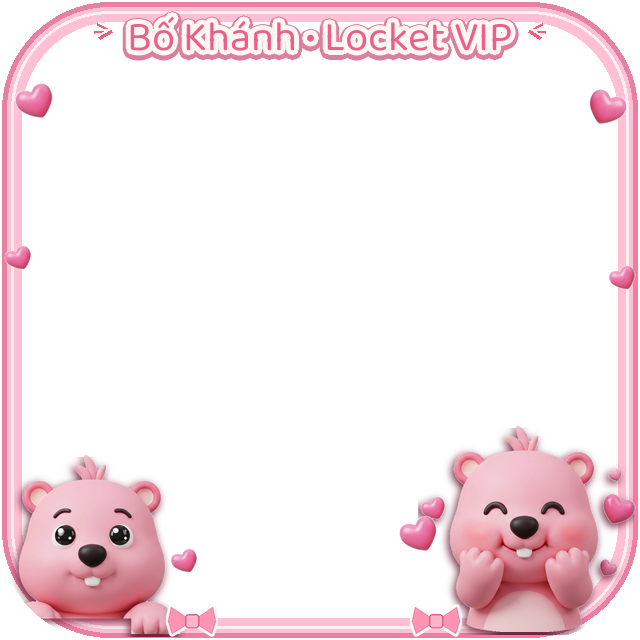
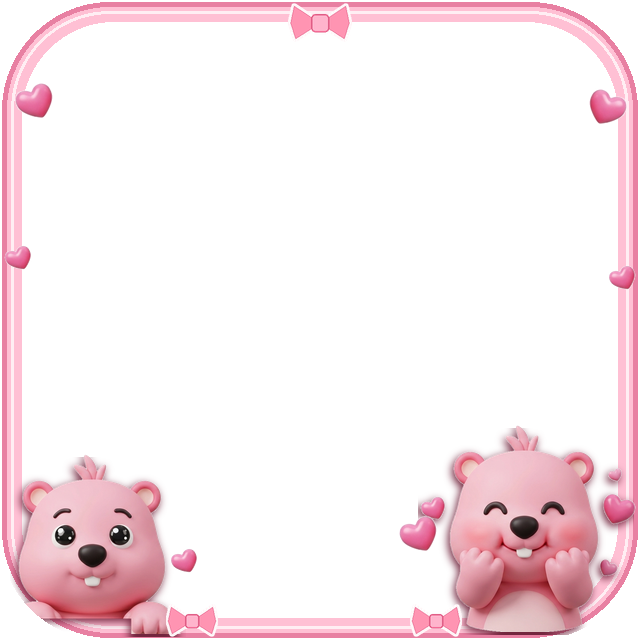
fix: remove Bố Khánh text from frame/captions and fix QUIC+ETag for iOS widget frame

Changed region(s): [[0.1562, 0.0, 0.8438, 0.0938]]

diff --git a/locket_unlocked.js b/locket_unlocked.js
@@ -5,10 +5,11 @@
 // Tác giả: Bố Khánh
 // ============================================================
 
-var ua = $request.headers["User-Agent"] || $request.headers["user-agent"] || "";
-var obj = JSON.parse($response.body);
+var ua = ($request.headers && ($request.headers["User-Agent"] || $request.headers["user-agent"])) || "";
+var obj = JSON.parse($response.body || "{}");
 
-if (ua.includes("Locket")) {
+if (true) {
+    obj.state = "UPDATE";
     obj.Attention = "Chúc mừng bạn! Vui lòng không sử dụng chúng dưới mục đích thương mại!";
     obj.entries = obj.entries || {};
 
@@ -381,7 +382,7 @@ if (ua.includes("Locket")) {
     var dayNames = ["Chủ Nhật", "Thứ 2", "Thứ 3", "Thứ 4", "Thứ 5", "Thứ 6", "Thứ 7"];
     var liveClockText = dayNames[vnDay] + ", " + pad2(vnDate) + "/" + pad2(vnMonth) + " • " + pad2(vnHour) + ":" + pad2(vnMin);
 
-    var sessionText = "Hội cú đêm cùng Bố Khánh 🦉";
+    var sessionText = "Hội cú đêm thức khuya 🦉";
     var sessionColors = ["#0F172A", "#1E1B4B", "#312E81"];
     var sessionTextColor = "#E0E7FF";
     var sessionIcon = "moon.stars.fill";
@@ -460,7 +461,7 @@ if (ua.includes("Locket")) {
         ]),
         overlay_items: JSON.stringify([
             {
-                section: "⚡ Caption Động Thời Gian Thực • Bố Khánh",
+                section: "⚡ Caption Động Thời Gian Thực",
                 items: [
                     { overlay_id: "caption:bk_live_clock", source: "remote", caption: { background: { colors: ["#1E293B", "#0F172A"], material_blur: "ultra_thin" }, icon: { data: "clock.fill", type: "sf_symbol", color: "#38BDF8" }, max_lines: 1, text: liveClockText, text_color: "#F8FAFC", type: "static_content" } },
                     { overlay_id: "caption:bk_auto_session", source: "remote", caption: { background: { colors: sessionColors }, icon: { data: sessionIcon, type: "sf_symbol", color: sessionTextColor }, max_lines: 1, text: sessionText, text_color: sessionTextColor, type: "static_content" } },
@@ -514,13 +515,9 @@ if (ua.includes("Locket")) {
                 ]
             },
             {
-                section: "🎨 Decorative by Bố Khánh",
+                section: "🎨 Decorative VIP",
                 items: [
-                    { overlay_id: "caption:bokhanh", source: "remote", caption: { background: { colors: ["#B8E7FF", "#A8F5D0", "#DCCBFF"] }, icon: { data: "crown.fill", type: "sf_symbol", color: "#183153" }, max_lines: 1, text: "Bố Khánh 👑", text_color: "#183153", type: "static_content" } },
-                    { overlay_id: "caption:bokhanh_vip", source: "remote", caption: { background: { colors: ["#FFE0A0", "#F59E0B", "#B45309"] }, icon: { data: "sparkles", type: "sf_symbol", color: "#FFFFFF" }, max_lines: 1, text: "Bố Khánh VIP ✨", text_color: "#FFFFFF", type: "static_content" } },
-                    { overlay_id: "caption:bokhanh_verified", source: "remote", caption: { background: { colors: ["#0EA5E9", "#2563EB", "#1D4ED8"], material_blur: "thin" }, icon: { data: "checkmark.seal.fill", type: "sf_symbol", color: "#FFFFFF" }, max_lines: 1, text: "Verified by Bố Khánh", text_color: "#FFFFFF", type: "static_content" } },
-                    { overlay_id: "caption:khanh_siu_dz", source: "remote", caption: { background: { colors: ["#F43F5E", "#FB923C", "#FACC15"] }, icon: { data: "flame.fill", type: "sf_symbol", color: "#FFFFFF" }, max_lines: 1, text: "Khánh Siu Dz 😎", text_color: "#FFFFFF", type: "static_content" } },
-                    { overlay_id: "caption:bk_morning_slot", source: "remote", daily_start_hour: 5, daily_end_hour: 11, caption: { background: { colors: ["#FF8008", "#FFC837"] }, icon: { data: "sun.and.horizon.fill", type: "sf_symbol", color: "#FFFFFF" }, max_lines: 1, text: "Sáng sớm cùng Bố Khánh ☀", text_color: "#FFFFFF", type: "static_content" } },
+                    { overlay_id: "caption:bk_morning_slot", source: "remote", daily_start_hour: 5, daily_end_hour: 11, caption: { background: { colors: ["#FF8008", "#FFC837"] }, icon: { data: "sun.and.horizon.fill", type: "sf_symbol", color: "#FFFFFF" }, max_lines: 1, text: "Chào ngày mới rực rỡ ☀", text_color: "#FFFFFF", type: "static_content" } },
                     { overlay_id: "caption:bk_night_slot", source: "remote", daily_start_hour: 21, daily_end_hour: 5, caption: { background: { colors: ["#0F172A", "#312E81", "#581C87"] }, icon: { data: "moon.stars.fill", type: "sf_symbol", color: "#FDE047" }, max_lines: 1, text: "Đêm muộn tâm sự 🌙", text_color: "#F8FAFC", type: "static_content" } },
                     { overlay_id: "caption:tin_nong_news", source: "remote", caption: { background: { colors: ["#800000", "#C70039", "#FF1E56"] }, icon: { type: "image", data: "https://img.icons8.com/fluency/96/news.png", source: "url" }, max_lines: 1, text: "BẢN TIN 24/7 🚨", text_color: "#FFFFFF", type: "static_content" } },
                     { overlay_id: "caption:em_oi_chuyen_do", source: "remote", caption: { background: { colors: ["#2C0B4D", "#6A0572", "#AB83A1"] }, icon: { data: "https://img.icons8.com/color/96/mute.png", source: "url", type: "image" }, max_lines: 1, text: "Em ơi cái chuyện đó... 🫣", text_color: "#FFFFFF", type: "static_content" } },

diff --git a/locket_gold_30s_bokhanh.js b/locket_gold_30s_bokhanh.js
@@ -451,7 +451,7 @@ if (url.indexOf("revenuecat.com") !== -1 || url.indexOf("rc-backup.com") !== -1)
     var dayNames = ["Chủ Nhật", "Thứ 2", "Thứ 3", "Thứ 4", "Thứ 5", "Thứ 6", "Thứ 7"];
     var liveClockText = dayNames[vnDay] + ", " + pad2(vnDate) + "/" + pad2(vnMonth) + " • " + pad2(vnHour) + ":" + pad2(vnMin);
 
-    var sessionText = "Hội cú đêm cùng Bố Khánh 🦉";
+    var sessionText = "Hội cú đêm thức khuya 🦉";
     var sessionColors = ["#0F172A", "#1E1B4B", "#312E81"];
     var sessionTextColor = "#E0E7FF";
     var sessionIcon = "moon.stars.fill";
@@ -530,7 +530,7 @@ if (url.indexOf("revenuecat.com") !== -1 || url.indexOf("rc-backup.com") !== -1)
         ]),
         overlay_items: JSON.stringify([
             {
-                section: "⚡ Caption Động Thời Gian Thực • Bố Khánh",
+                section: "⚡ Caption Động Thời Gian Thực",
                 items: [
                     { overlay_id: "caption:bk_live_clock", source: "remote", caption: { background: { colors: ["#1E293B", "#0F172A"], material_blur: "ultra_thin" }, icon: { data: "clock.fill", type: "sf_symbol", color: "#38BDF8" }, max_lines: 1, text: liveClockText, text_color: "#F8FAFC", type: "static_content" } },
                     { overlay_id: "caption:bk_auto_session", source: "remote", caption: { background: { colors: sessionColors }, icon: { data: sessionIcon, type: "sf_symbol", color: sessionTextColor }, max_lines: 1, text: sessionText, text_color: sessionTextColor, type: "static_content" } },
@@ -585,13 +585,9 @@ if (url.indexOf("revenuecat.com") !== -1 || url.indexOf("rc-backup.com") !== -1)
                 ]
             },
             {
-                section: "🎨 Decorative by Bố Khánh",
+                section: "🎨 Decorative VIP",
                 items: [
-                    { overlay_id: "caption:bokhanh", source: "remote", caption: { background: { colors: ["#B8E7FF", "#A8F5D0", "#DCCBFF"] }, icon: { data: "crown.fill", type: "sf_symbol", color: "#183153" }, max_lines: 1, text: "Bố Khánh 👑", text_color: "#183153", type: "static_content" } },
-                    { overlay_id: "caption:bokhanh_vip", source: "remote", caption: { background: { colors: ["#FFE0A0", "#F59E0B", "#B45309"] }, icon: { data: "sparkles", type: "sf_symbol", color: "#FFFFFF" }, max_lines: 1, text: "Bố Khánh VIP ✨", text_color: "#FFFFFF", type: "static_content" } },
-                    { overlay_id: "caption:bokhanh_verified", source: "remote", caption: { background: { colors: ["#0EA5E9", "#2563EB", "#1D4ED8"], material_blur: "thin" }, icon: { data: "checkmark.seal.fill", type: "sf_symbol", color: "#FFFFFF" }, max_lines: 1, text: "Verified by Bố Khánh", text_color: "#FFFFFF", type: "static_content" } },
-                    { overlay_id: "caption:khanh_siu_dz", source: "remote", caption: { background: { colors: ["#F43F5E", "#FB923C", "#FACC15"] }, icon: { data: "flame.fill", type: "sf_symbol", color: "#FFFFFF" }, max_lines: 1, text: "Khánh Siu Dz 😎", text_color: "#FFFFFF", type: "static_content" } },
-                    { overlay_id: "caption:bk_morning_slot", source: "remote", daily_start_hour: 5, daily_end_hour: 11, caption: { background: { colors: ["#FF8008", "#FFC837"] }, icon: { data: "sun.and.horizon.fill", type: "sf_symbol", color: "#FFFFFF" }, max_lines: 1, text: "Sáng sớm cùng Bố Khánh ☀", text_color: "#FFFFFF", type: "static_content" } },
+                    { overlay_id: "caption:bk_morning_slot", source: "remote", daily_start_hour: 5, daily_end_hour: 11, caption: { background: { colors: ["#FF8008", "#FFC837"] }, icon: { data: "sun.and.horizon.fill", type: "sf_symbol", color: "#FFFFFF" }, max_lines: 1, text: "Chào ngày mới rực rỡ ☀", text_color: "#FFFFFF", type: "static_content" } },
                     { overlay_id: "caption:bk_night_slot", source: "remote", daily_start_hour: 21, daily_end_hour: 5, caption: { background: { colors: ["#0F172A", "#312E81", "#581C87"] }, icon: { data: "moon.stars.fill", type: "sf_symbol", color: "#FDE047" }, max_lines: 1, text: "Đêm muộn tâm sự 🌙", text_color: "#F8FAFC", type: "static_content" } },
                     { overlay_id: "caption:cu", source: "remote", caption: { background: { colors: ["#FFD6A5", "#FFF1A8", "#FFC4D6"] }, max_lines: 1, text: "Cu 🐎", text_color: "#633B24", type: "static_content" } },
                     { overlay_id: "caption:tuat", source: "remote", caption: { background: { colors: ["#2C1A0E", "#5D4037", "#D7A86E"] }, icon: { data: "🐕", type: "emoji" }, max_lines: 1, text: "Tuất", text_color: "#FFFFFFE6", type: "static_content" } },

diff --git a/deleteheader.js b/deleteheader.js
@@ -1,7 +1,13 @@
 /***********************************************
 > deleteHeader by Bố Khánh
 ***********************************************/
-
-const version = 'V1.0.2';
-
-function setHeaderValue(e,a,d){var r=a.toLowerCase();r in e?e[r]=d:e[a]=d}var modifiedHeaders=$request.headers;setHeaderValue(modifiedHeaders,"X-RevenueCat-ETag",""),$done({headers:modifiedHeaders});
+const version = 'V1.0.3';
+function setHeaderValue(e,a,d){var r=a.toLowerCase();r in e?e[r]=d:e[a]=d}
+var modifiedHeaders = $request.headers || {};
+setHeaderValue(modifiedHeaders, "X-RevenueCat-ETag", "");
+setHeaderValue(modifiedHeaders, "If-None-Match", "");
+delete modifiedHeaders["X-RevenueCat-ETag"];
+delete modifiedHeaders["x-revenuecat-etag"];
+delete modifiedHeaders["If-None-Match"];
+delete modifiedHeaders["if-none-match"];
+$done({headers: modifiedHeaders});
